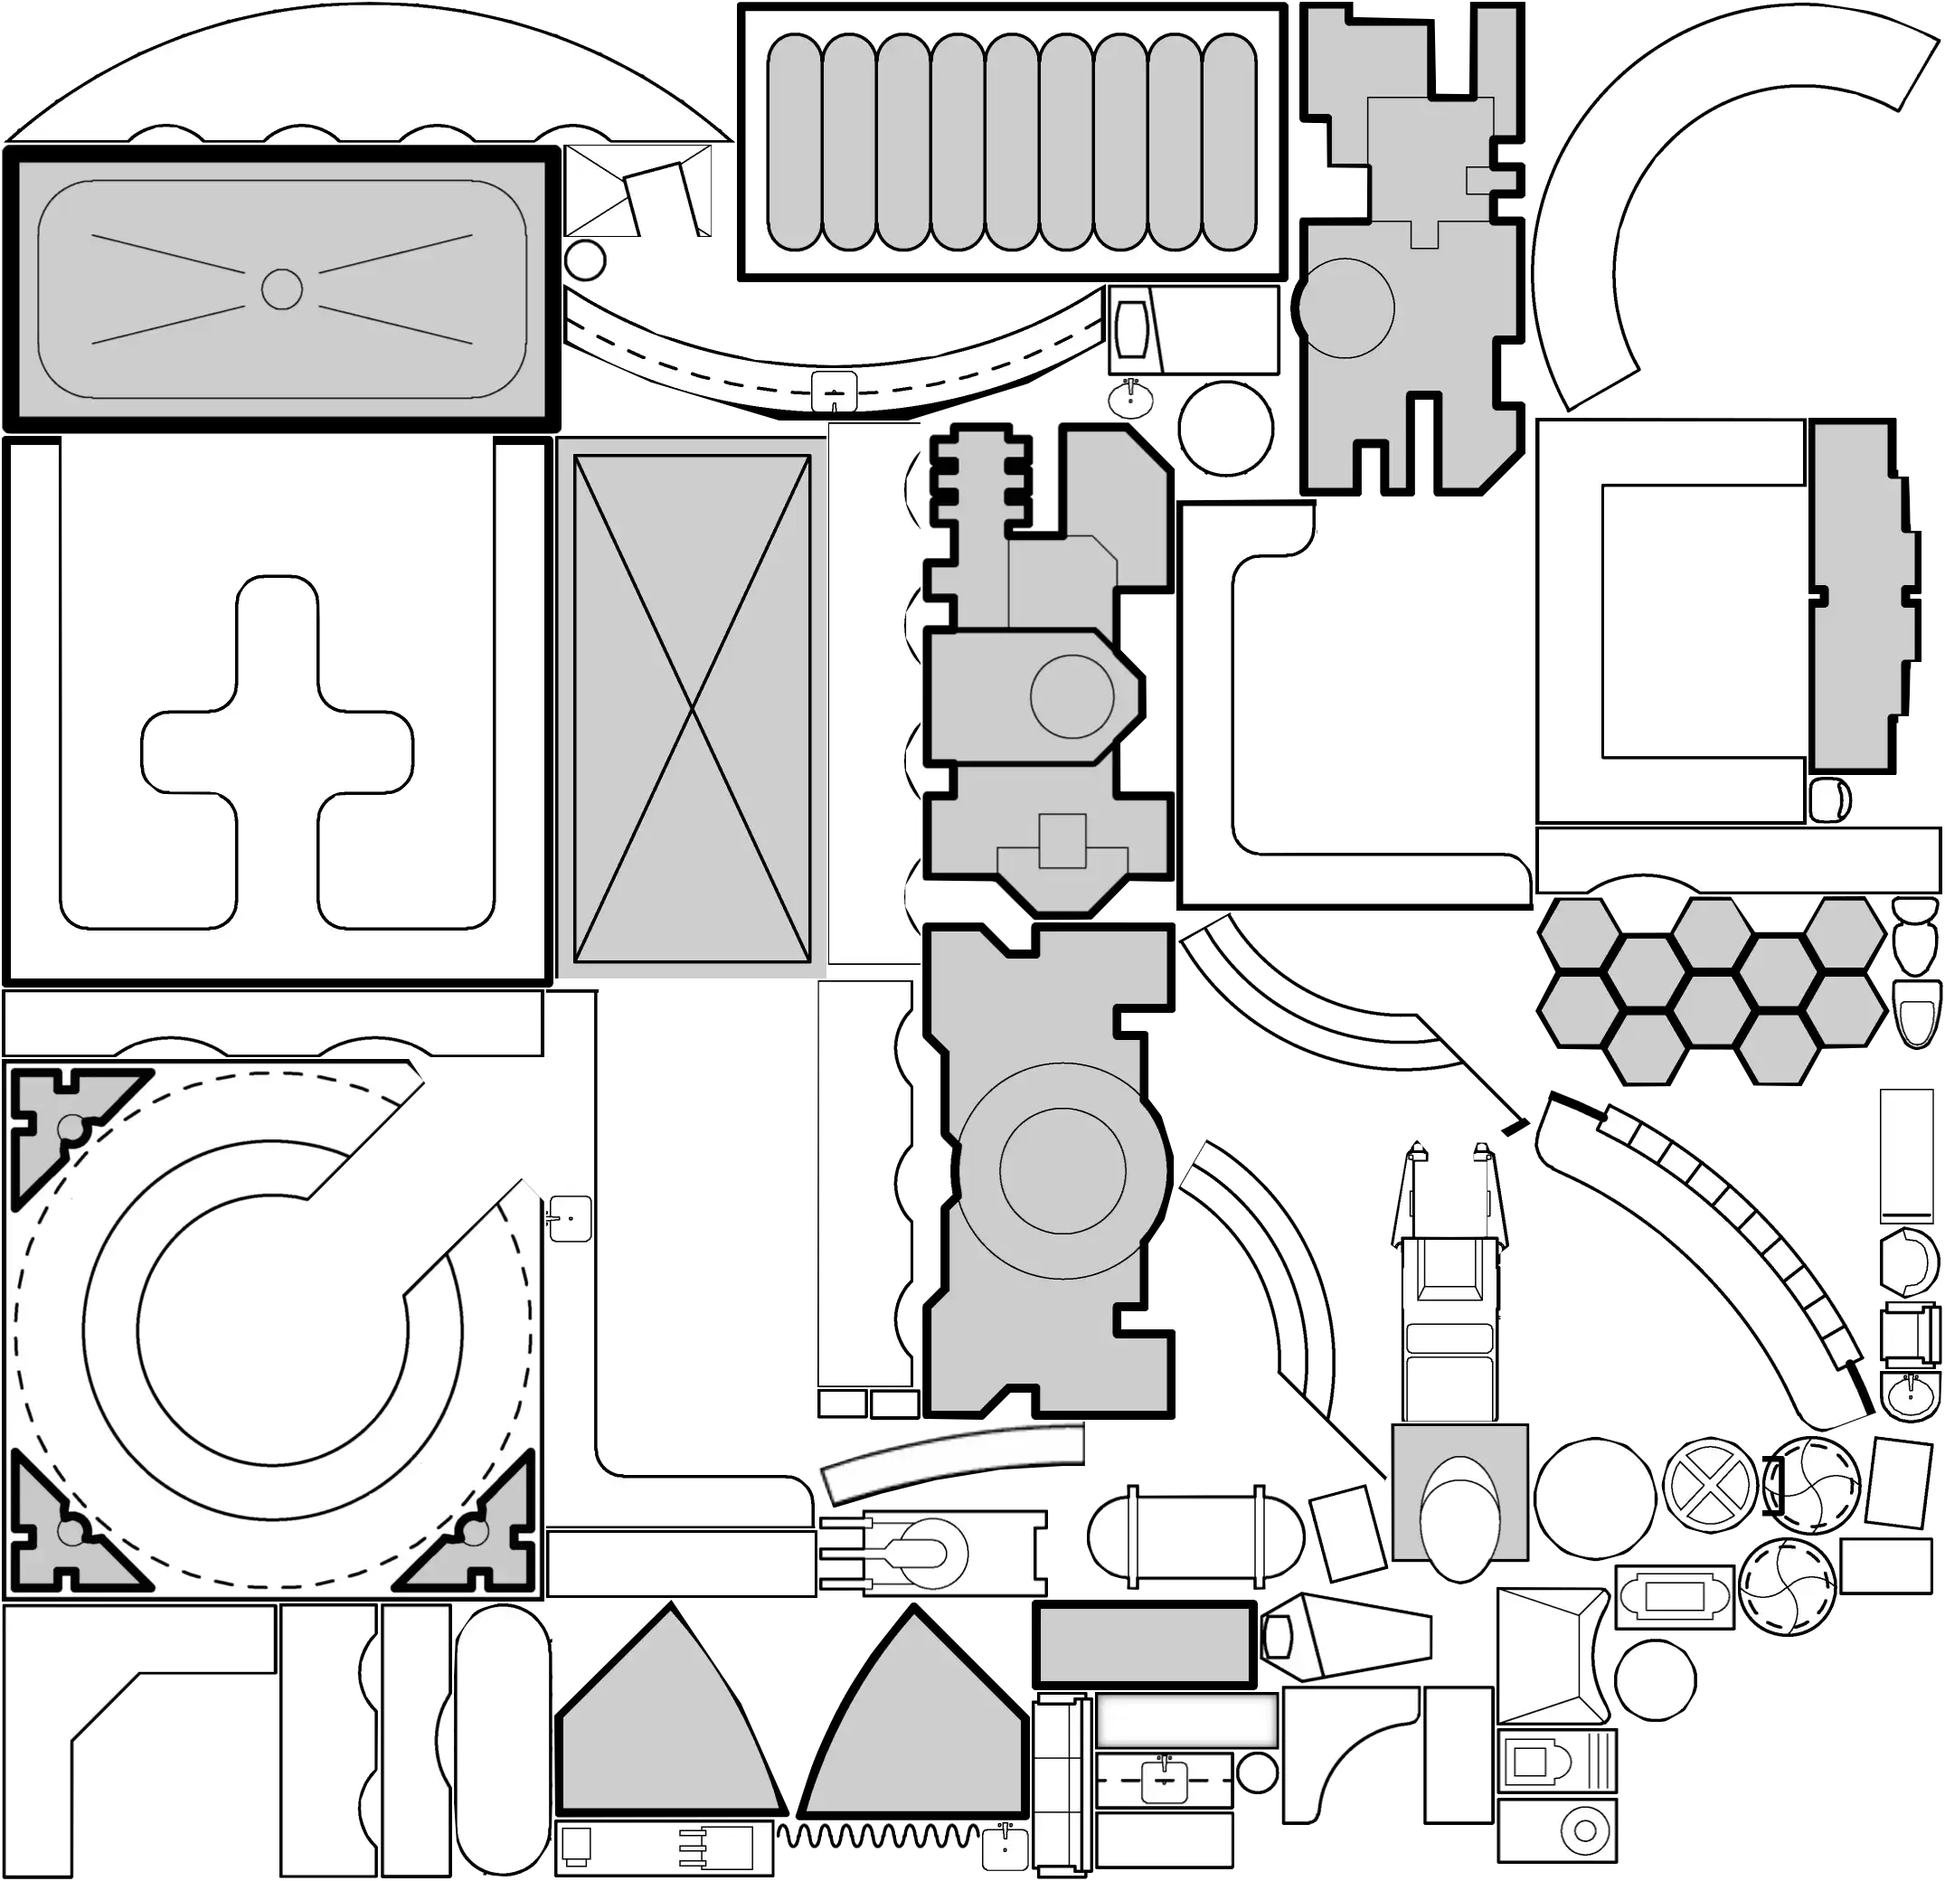
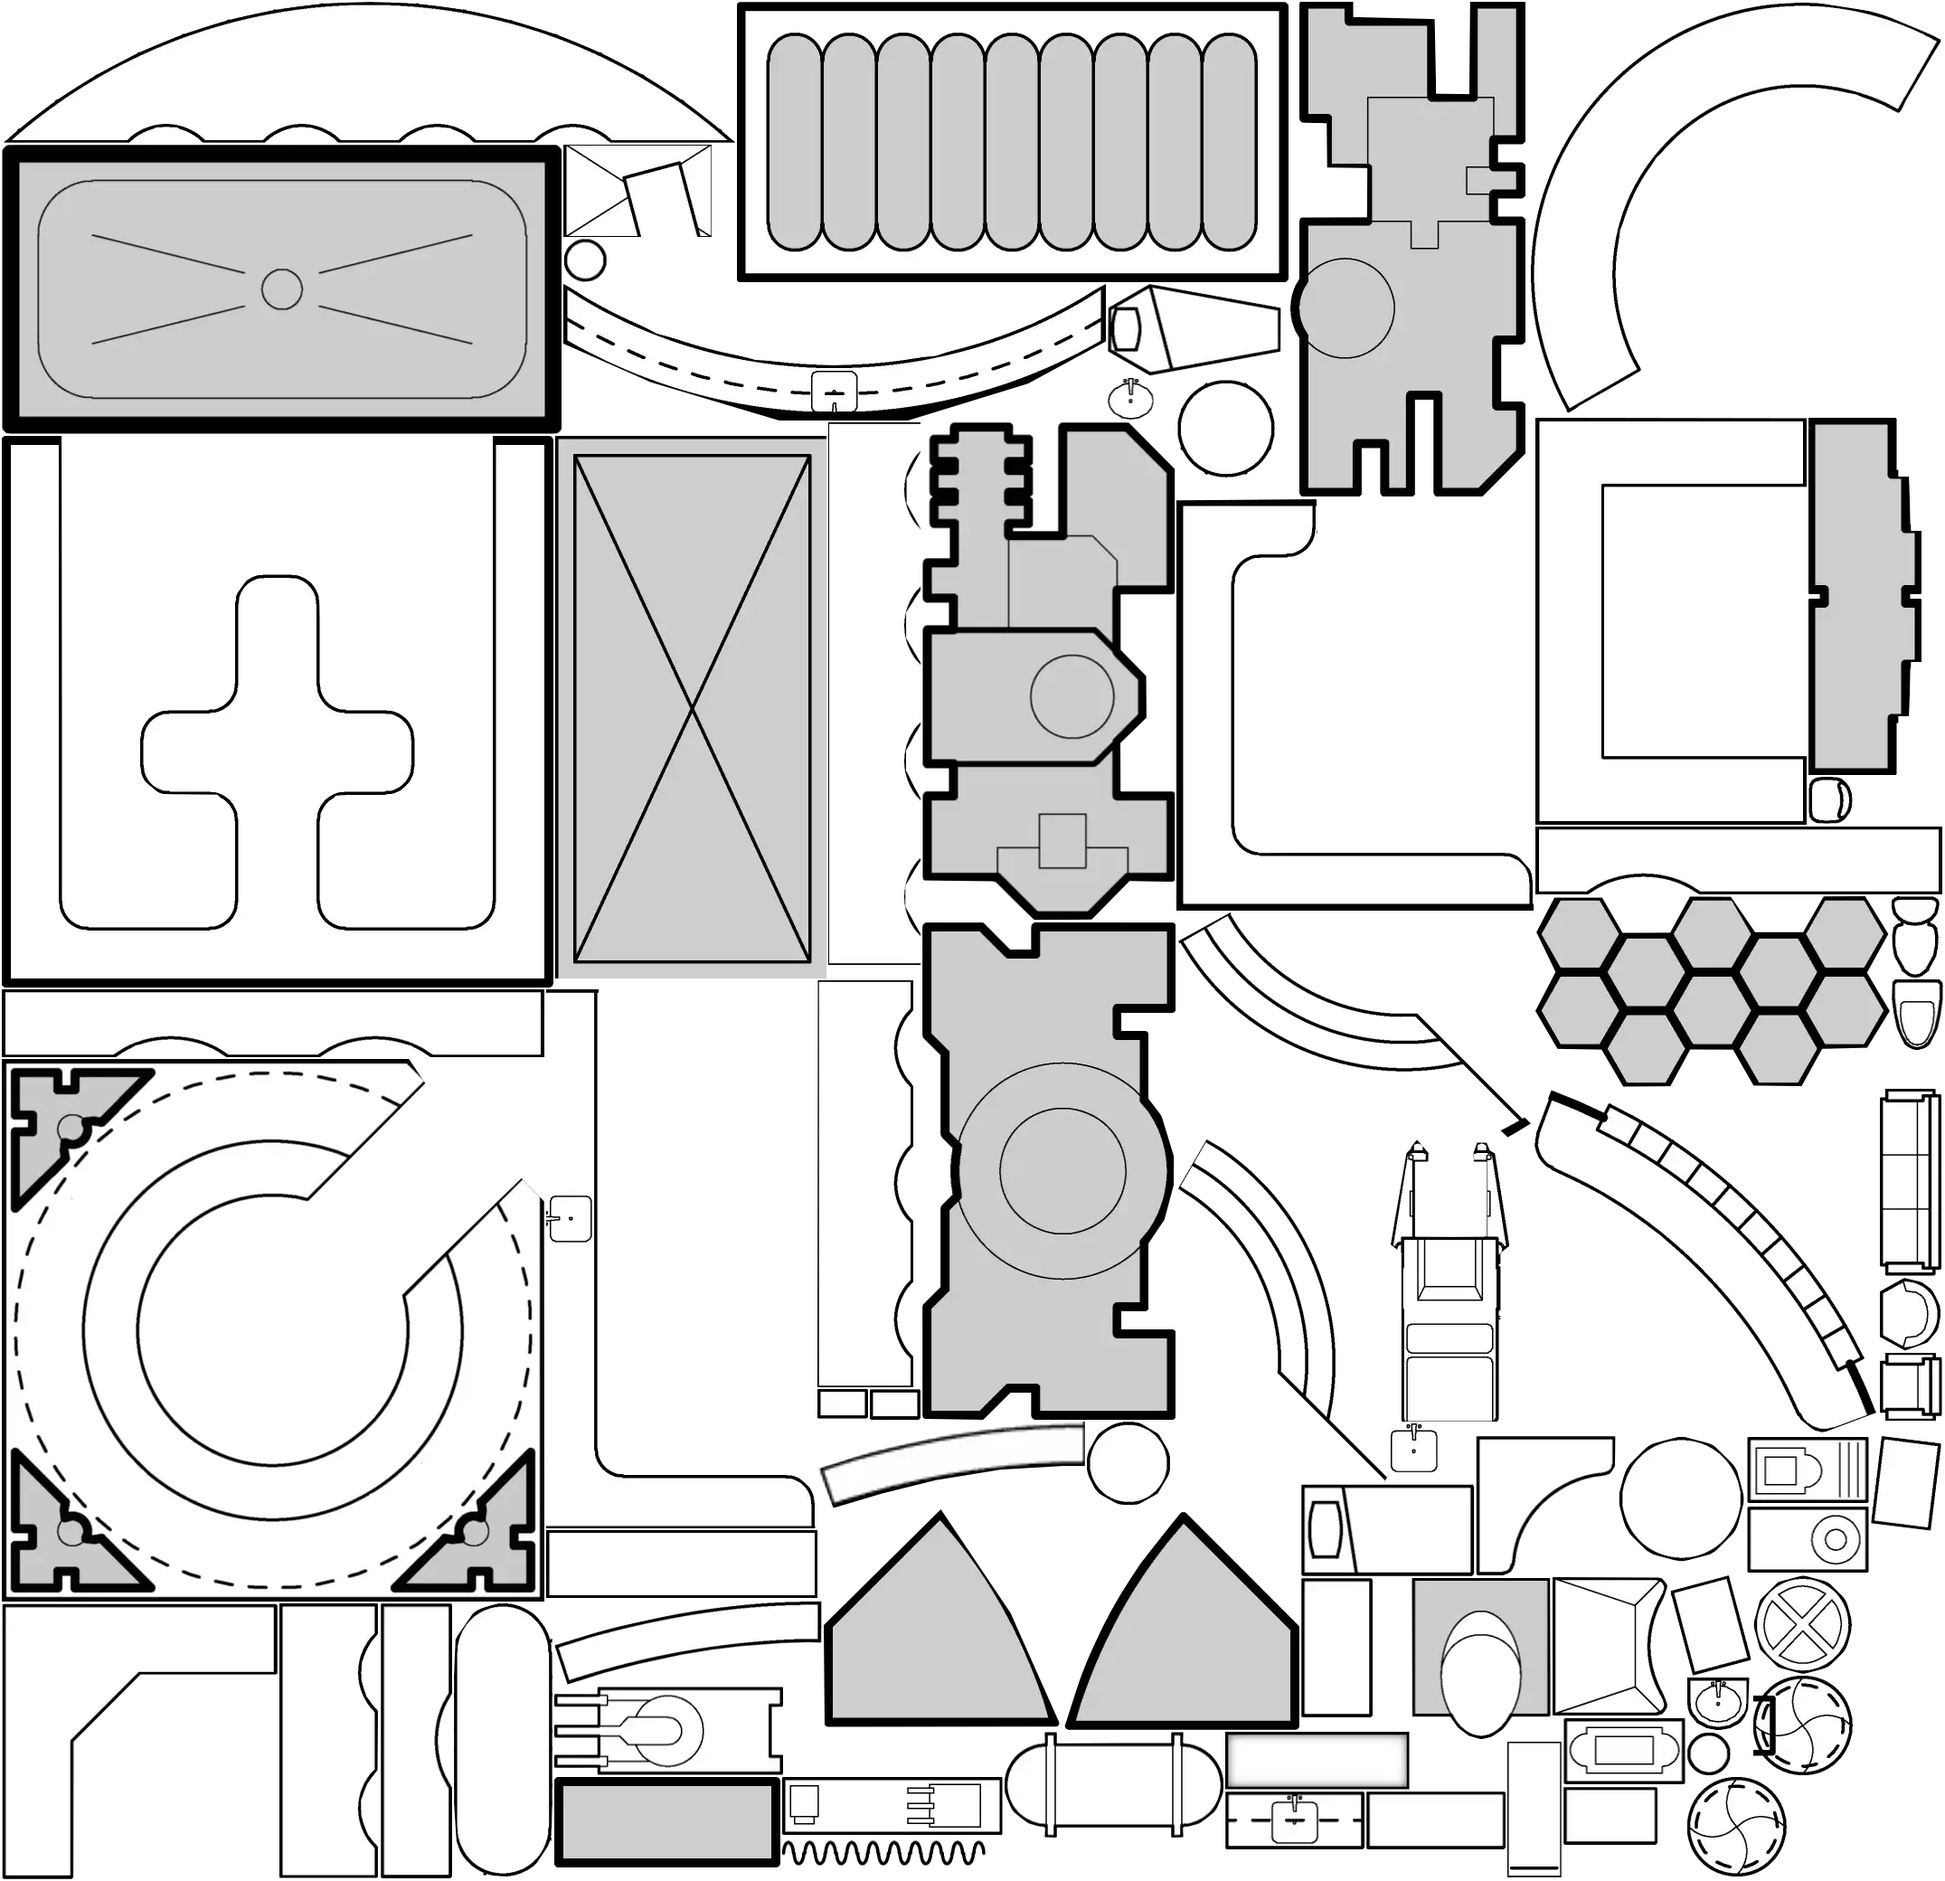
feat: towards fix blurred table in 303

Changed region(s): [[0.2803, 0.5625, 1.0, 1.0], [0.5607, 0.125, 0.6541, 0.2188]]

diff --git a/src/npc-cli/service/const.js b/src/npc-cli/service/const.js
@@ -319,4 +319,5 @@ export const fromSymbolKey = {// 🔔 must extend when adding new symbols
   "extra--017--table--2x0.5": true,
   "extra--018--table-0.25x0.25": true,
   "extra--019--table-0.5x2": true,
+  "extra--020--table-2x0.66": true,
 };

diff --git a/docs/TODO.md b/docs/TODO.md
@@ -24,7 +24,8 @@
     - ✅ try sway with almost upright head
     - ...
 
-- migrate `cuboid-man` into `<NPCs>` (leave `<TestNpcs>` as is)
+- migrate `cuboid-man` into `<NPCs>`
+  - ℹ leave `<TestNpcs>` as is
 
 - 🚧 next.js project (npc-cli-next)
   - keep in sync e.g. glsl.js, Logger
@@ -33,6 +34,9 @@
 
 - ✅ bug: tabs: un-maximise tty can resume World while tty stays paused
   - ℹ unpaused, maximise tty, pause, un-maximise
+- 🚧 fix blurry curved table in 303
+  - ✅ extra--020--table-2x0.66
+  - 🚧 add placeholder synbol to 303
 - ongoing "large Chrome memory in tab" issue
   - ℹ https://support.google.com/chrome/a/answer/6271282?hl=en#zippy=%2Cmac
   - ℹ `/Applications/Google\ Chrome.app/Contents/MacOS/Google\ Chrome --enable-logging --v=1 --verbose`
